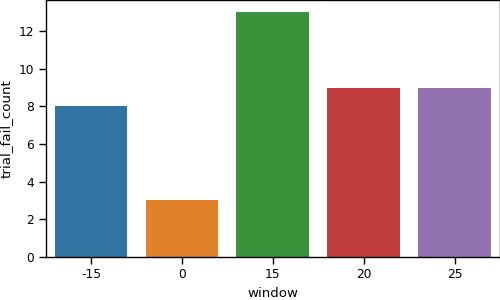
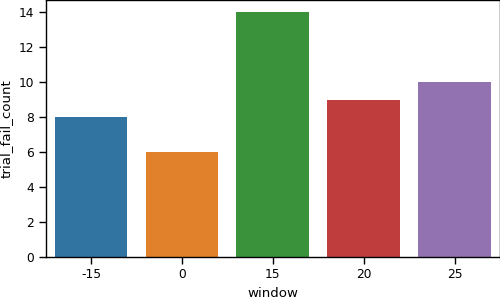
New plot

diff --git a/projects/point-analysis/point-analysis-from-data.py b/projects/point-analysis/point-analysis-from-data.py
@@ -16,9 +16,9 @@ from collections import deque
 sns.set_context("paper", font_scale=1)
 
 
-directory = '2023-04-14_test'
+directory = '2023-04-21_test'
 results_path = os.path.join('Results', 'newant', directory)
-fig_save_path = os.path.join('Results', 'newant', directory, 'analysis')
+# fig_save_path = os.path.join('Results', 'newant', directory, 'analysis')
 with open(os.path.join(results_path, 'params.yml')) as fp:
     params = yaml.load(fp)
 routes_path = params['routes_path']
@@ -33,7 +33,7 @@ data['th'] = data['th'].apply(literal_eval)
 data['matched_index'] = data['matched_index'].apply(literal_eval)
 
 
-route_id = 1
+route_id = 5
 window = -15
 blur =  True
 matcher = 'corr'
@@ -43,7 +43,7 @@ gauss_loc_norm = "{'sig1': 2, 'sig2': 20}"
 res = '(180, 80)'
 threshold = 0
 repeat_no = 0
-figsize = (6, 3)
+figsize = (8, 4)
 
 
 # filter data
@@ -54,7 +54,7 @@ traj = data.loc[(data['matcher'] == matcher) & (data['res'] == res)
                 #& (data['loc_norm'] == loc_norm) 
                 & (data['gauss_loc_norm'] == gauss_loc_norm)
                 & (data['route_id'] == route_id)
-                & (data['num_of_repeat'] == repeat_no)
+                # & (data['num_of_repeat'] == repeat_no)
                 ]
 traj = traj.to_dict(orient='records')[0]
 traj['window_log'] = literal_eval(traj['window_log'])
@@ -193,19 +193,20 @@ fig, ax1 = plt.subplots(figsize=figsize)
 #ax1.plot(range(len(traj['abs_index_diff'])), traj['abs_index_diff'], label='index missmatch')
 ax1.set_ylim([0, 260])
 ax1.plot(range(len(w_size)), w_size, label='window size')
-# for i, th in enumerate(thresh):
-#     ax1.plot(window_per_thresh[i], label=f'thresh={th}%')
-ax1.plot(d2i_window_log, label='d2i w. update' )
+for i, th in enumerate(thresh):
+    ax1.plot(window_per_thresh[i], label=f'thresh={th}%')
+#ax1.plot(d2i_window_log, label='d2i w. update' )
 
 ylims = ax1.get_ylim()
 ax1.vlines(traj.get('tfc_idxs'), ymin=ylims[0], ymax=ylims[1], linestyles='dashed', colors='r', label='fail points')
 ax1.set_ylabel('route index scale')
 ax2 = ax1.twinx()
 ax2.plot(range(len(traj['best_sims'])), traj['best_sims'], label='image diff.', color='g')
+ax2.plot(scale2_0_1(sma_d2i), label='sma_d2i', color='c')
 #ax2.plot(gauss_scores, label='gauss', color='m')
-ax2.plot(scale2_0_1(d2i_scores), label='d2i', color='m')
-ax2.set_ylim([0.0, 1.0])
-ax2.set_ylabel(f'{matcher} image distance')
+#ax2.plot(scale2_0_1(d2i_scores), label='d2i', color='m')
+#ax2.set_ylim([0.0, 1.0])
+ax2.set_ylabel(f'{matcher} image distance and quality metric score')
 ax1.legend(loc=0)
 ax2.legend(loc=2)
 plt.show()
@@ -229,7 +230,7 @@ ax2.set_ylabel('cc image distance')
 #ax2.set_ylim([0.0, 1.0])
 ax1.legend(loc=2)
 ax2.legend(loc=0)
-plt.show()
+#plt.show()
 
 
 #######################
@@ -251,4 +252,4 @@ ax2.plot(range(len(traj['best_sims'])), traj['best_sims'], label='best sim', col
 ax2.set_ylabel('scores')
 ax1.legend(loc=2)
 ax2.legend(loc=0)
-plt.show()
+#plt.show()

diff --git a/Results/newant/failed-trials-analysis.py b/Results/newant/failed-trials-analysis.py
@@ -19,7 +19,7 @@ data = pd.read_csv(os.path.join(fig_save_path, 'results.csv'), index_col=False)
 
 
 # Choose a specific pre. processing
-route_id = 1
+route_id = 7
 matcher = 'corr'
 blur = True
 # edge = 'False' 
@@ -34,7 +34,8 @@ data = data.loc[(data['matcher'] == matcher) & (data['res'] == res)
                 & (data['gauss_loc_norm'] == g_loc_norm)
                 #& (data['loc_norm'] == loc_norm)
                 & (data['route_id'] == route_id )
-                #& (data['route_id'] < 5 ) #& (data['route_id'] <= 14 ) 
+                # & (data['route_id'] >= 14 ) #& (data['route_id'] < 14 )
+                & (data['num_of_repeat'] == 0) 
 ]
 #################
 # in case of repeats
@@ -48,7 +49,7 @@ sns.barplot(x="window", y="trial_fail_count", data=data, ax=ax, estimator=sum, c
 # ax.set_xticklabels(window_labels)
 plt.tight_layout(pad=0)
 path = os.path.join(fig_save_path, f'route[{route_id}]-failed trials.png')
-#path = os.path.join(fig_save_path, 'curve-failed trials.png')
+# path = os.path.join(fig_save_path, 'curve4-failed trials.png')
 fig.savefig(path)
 plt.show()
 

diff --git a/source/seqnav.py b/source/seqnav.py
@@ -143,7 +143,7 @@ class SequentialPerfectMemory:
         self.matched_index_log.append(matched_idx)
 
         #evaluate ridf
-        h_eval = self.eval_ridf(wrsims[idx])
+        # h_eval = self.eval_ridf(wrsims[idx])
 
         if self.adaptive:
             best = wind_sims[idx]
@@ -152,14 +152,14 @@ class SequentialPerfectMemory:
             self.check_w_size()
 
         # Update memory pointer
-        if h_eval:
-            self.update_mid_pointer(idx)
-        else:
-            self.set_mem_pointer(self.mem_pointer + 1)
+        # if h_eval:
+        self.update_mid_pointer(idx)
+        # else:
+        #     self.set_mem_pointer(self.mem_pointer + 1)
 
         # the heading changes if the rmf quality is low
 
-        heading = self.evaluated_heading(h_eval)
+        #heading = self.evaluated_heading(h_eval)
         
         return heading
 

diff --git a/Results/newant/curve-vs-tfc.py b/Results/newant/curve-vs-tfc.py
@@ -1,10 +1,8 @@
 import os, sys
-
 # path = os.path.join(os.path.dirname(__file__), os.pardir)
 fwd = os.path.dirname(__file__)
 sys.path.append(os.getcwd())
 
-import cv2 as cv
 import numpy as np
 import pandas as pd
 import seaborn as sns
@@ -32,6 +30,8 @@ metric = 'errors'
 window = 20
 data = data.loc[data['window'] == window]
 data = data.groupby('route_id')[metric].apply(sum).to_frame(metric).reset_index()
+
+# Get the curvatures here
 
 # sns.scatterplot(data=data, x='route_id', y=metric)
 
